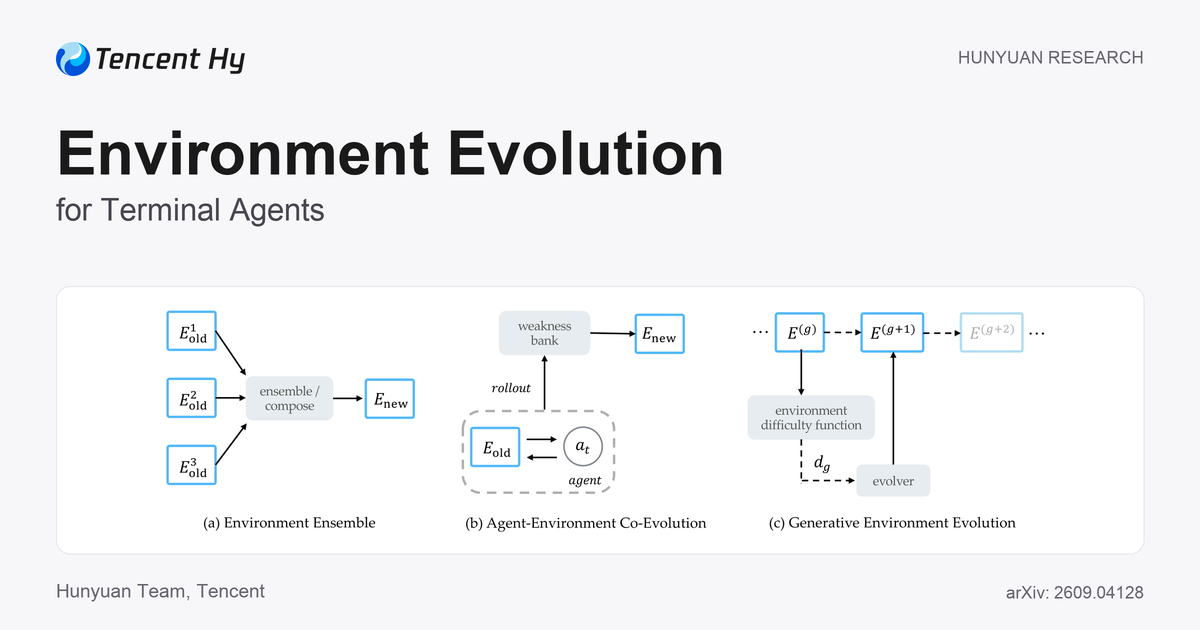
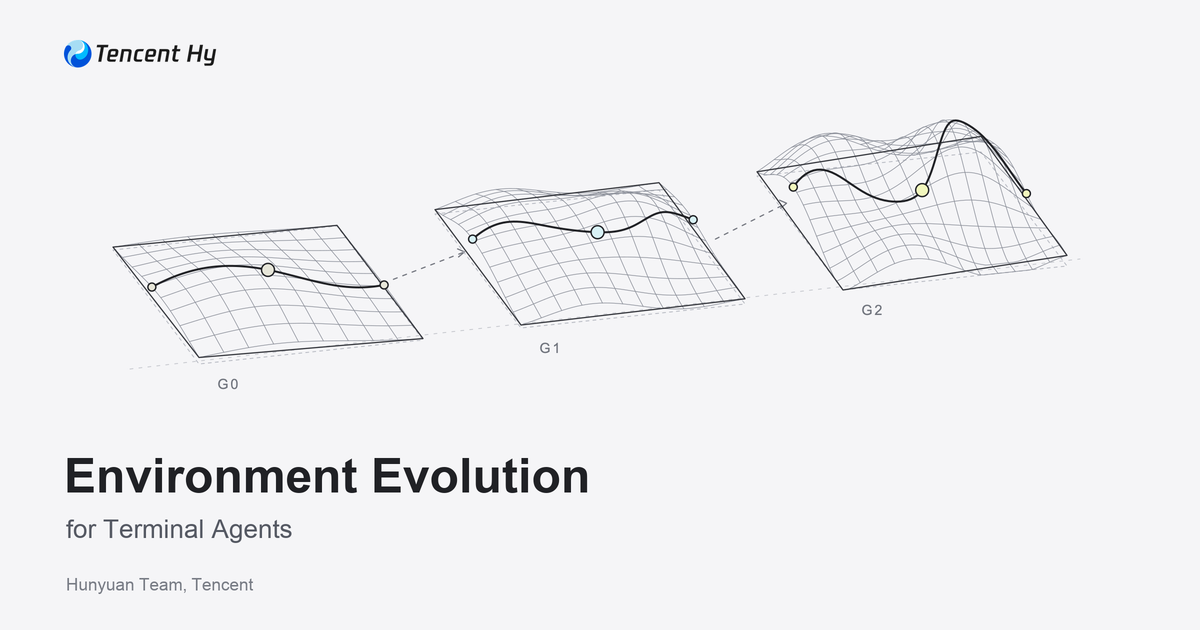
update

diff --git a/index.html b/index.html
@@ -12,16 +12,16 @@
   <meta property="og:url" content="https://environment-evolution.github.io/">
   <meta property="og:site_name" content="Environment Evolution &amp; SkillSynth">
   <meta property="og:locale" content="en_US">
-  <meta property="og:image" content="https://environment-evolution.github.io/assets/social/environment-evolution.png">
-  <meta property="og:image:alt" content="Environment Evolution for Terminal Agents — paper overview">
+  <meta property="og:image" content="https://environment-evolution.github.io/assets/social/environment-evolution.png?v=2">
+  <meta property="og:image:alt" content="Environment Evolution for Terminal Agents — geometric illustration of three evolving environment generations">
   <meta property="og:image:type" content="image/png">
   <meta property="og:image:width" content="1200">
   <meta property="og:image:height" content="630">
   <meta name="twitter:card" content="summary_large_image">
   <meta name="twitter:title" content="Environment Evolution for Terminal Agents | Tencent Hunyuan">
   <meta name="twitter:description" content="Environment scaling for terminal agents by Tencent Hunyuan (Tencent Hy). Environment Evolution builds verified, harder environments for agent reinforcement learning.">
-  <meta name="twitter:image" content="https://environment-evolution.github.io/assets/social/environment-evolution.png">
-  <meta name="twitter:image:alt" content="Environment Evolution for Terminal Agents — paper overview">
+  <meta name="twitter:image" content="https://environment-evolution.github.io/assets/social/environment-evolution.png?v=2">
+  <meta name="twitter:image:alt" content="Environment Evolution for Terminal Agents — geometric illustration of three evolving environment generations">
   <meta name="citation_title" content="Environment Evolution for Terminal Agents">
   <meta name="citation_author" content="Zhiyuan Fan">
   <meta name="citation_author" content="Tinghao Yu">
@@ -191,10 +191,10 @@
       },
       "image": {
         "@type": "ImageObject",
-        "url": "https://environment-evolution.github.io/assets/social/environment-evolution.png",
+        "url": "https://environment-evolution.github.io/assets/social/environment-evolution.png?v=2",
         "width": 1200,
         "height": 630,
-        "caption": "Environment Evolution for Terminal Agents — paper overview"
+        "caption": "Environment Evolution for Terminal Agents — geometric illustration of three evolving environment generations"
       }
     }
   ]

diff --git a/skillsynth/index.html b/skillsynth/index.html
@@ -12,16 +12,16 @@
   <meta property="og:url" content="https://environment-evolution.github.io/skillsynth/">
   <meta property="og:site_name" content="Environment Evolution &amp; SkillSynth">
   <meta property="og:locale" content="en_US">
-  <meta property="og:image" content="https://environment-evolution.github.io/assets/social/skillsynth.png">
-  <meta property="og:image:alt" content="SkillSynth — skill graph and terminal task synthesis overview">
+  <meta property="og:image" content="https://environment-evolution.github.io/assets/social/skillsynth.png?v=2">
+  <meta property="og:image:alt" content="SkillSynth — geometric skill graph with a highlighted compositional path">
   <meta property="og:image:type" content="image/png">
   <meta property="og:image:width" content="1200">
   <meta property="og:image:height" content="630">
   <meta name="twitter:card" content="summary_large_image">
   <meta name="twitter:title" content="SkillSynth: Terminal Task Synthesis | Tencent Hunyuan">
   <meta name="twitter:description" content="SkillSynth by Tencent Hunyuan (Tencent Hy) scales terminal task synthesis with skill graphs, providing diverse seed environments for Environment Evolution.">
-  <meta name="twitter:image" content="https://environment-evolution.github.io/assets/social/skillsynth.png">
-  <meta name="twitter:image:alt" content="SkillSynth — skill graph and terminal task synthesis overview">
+  <meta name="twitter:image" content="https://environment-evolution.github.io/assets/social/skillsynth.png?v=2">
+  <meta name="twitter:image:alt" content="SkillSynth — geometric skill graph with a highlighted compositional path">
   <meta name="citation_title" content="Toward Scalable Terminal Task Synthesis via Skill Graphs">
   <meta name="citation_author" content="Zhiyuan Fan">
   <meta name="citation_author" content="Tinghao Yu">
@@ -184,10 +184,10 @@
       },
       "image": {
         "@type": "ImageObject",
-        "url": "https://environment-evolution.github.io/assets/social/skillsynth.png",
+        "url": "https://environment-evolution.github.io/assets/social/skillsynth.png?v=2",
         "width": 1200,
         "height": 630,
-        "caption": "SkillSynth — skill graph and terminal task synthesis overview"
+        "caption": "SkillSynth — geometric skill graph with a highlighted compositional path"
       }
     }
   ]

diff --git a/scripts/render-social-cards.py b/scripts/render-social-cards.py
@@ -1,16 +1,16 @@
 # /// script
 # dependencies = ["Pillow", "CairoSVG"]
 # ///
-"""Render 1200 x 630 paper cards from the existing logo and original figures.
+"""Render geometric paper covers inspired by Tencent Hy's research cards.
 
-Run with `uv run scripts/render-social-cards.py` (requires the Cairo library).
+Run: uv run scripts/render-social-cards.py (requires Cairo).
+The illustrations are conceptual artwork, not experimental data.
 """
 from io import BytesIO
+from math import exp, sin, cos
 from pathlib import Path
 import os
 
-# Let ctypes locate Homebrew Cairo when launched through a macOS executable
-# that strips DYLD variables from its child process environment.
 if Path('/opt/homebrew/lib/libcairo.dylib').exists():
     os.environ.setdefault('DYLD_FALLBACK_LIBRARY_PATH', '/opt/homebrew/lib')
 
@@ -21,6 +21,8 @@ ROOT = Path(__file__).resolve().parents[1]
 OUT = ROOT / 'assets' / 'social'
 OUT.mkdir(exist_ok=True)
 SCALE = 2
+BG = '#f5f5f7'
+INK = '#202125'
 FONT_OPTIONS = [
     (Path('/System/Library/Fonts/Supplemental/Arial.ttf'),
      Path('/System/Library/Fonts/Supplemental/Arial Bold.ttf')),
@@ -30,39 +32,95 @@ FONT_OPTIONS = [
 REGULAR, BOLD = next(pair for pair in FONT_OPTIONS if all(p.exists() for p in pair))
 
 
-def render(slug, title, subtitle, figure, arxiv):
-    canvas = Image.new('RGB', (1200 * SCALE, 630 * SCALE), '#f7f7f9')
-    draw = ImageDraw.Draw(canvas)
-
-    def text(x, y, value, size, bold=False, color='#1a1a1a', anchor='la'):
-        font = ImageFont.truetype(str(BOLD if bold else REGULAR), size * SCALE)
-        assert draw.textlength(value, font=font) <= 1088 * SCALE
-        draw.text((x * SCALE, y * SCALE), value, font=font, fill=color, anchor=anchor)
-
-    logo = Image.open(ROOT / 'assets/hy-logo.png').convert('RGBA')
-    logo = ImageOps.contain(logo, (190 * SCALE, 36 * SCALE), Image.Resampling.LANCZOS)
-    canvas.paste(logo, (56 * SCALE, 42 * SCALE), logo)
-    text(1144, 48, 'HUNYUAN RESEARCH', 17, color='#65666f', anchor='ra')
-    text(56, 119, title, 61, bold=True)
-    for i, line in enumerate(subtitle):
-        text(56, 192 + i * 38, line, 31, color='#464750')
-
-    draw.rounded_rectangle((56 * SCALE, 286 * SCALE, 1144 * SCALE, 554 * SCALE),
-                           radius=14 * SCALE, fill='white', outline='#e5e6eb', width=SCALE)
-    source = ROOT / figure
-    if source.suffix == '.svg':
-        artwork = Image.open(BytesIO(cairosvg.svg2png(url=str(source), output_width=2200)))
-    else:
-        artwork = Image.open(source)
-    artwork = ImageOps.contain(artwork.convert('RGBA'), (1040 * SCALE, 240 * SCALE), Image.Resampling.LANCZOS)
-    canvas.paste(artwork, ((1200 * SCALE - artwork.width) // 2,
-                          286 * SCALE + (268 * SCALE - artwork.height) // 2), artwork)
-    text(56, 580, 'Hunyuan Team, Tencent', 19, color='#65666f')
-    text(1144, 583, 'arXiv: ' + arxiv, 17, color='#65666f', anchor='ra')
-    canvas.resize((1200, 630), Image.Resampling.LANCZOS).save(OUT / (slug + '.png'), optimize=True)
+def line(points, color=INK, width=1, dash=None):
+    coords = ' '.join(f'{x:.2f},{y:.2f}' for x, y in points)
+    dashed = f' stroke-dasharray="{dash}"' if dash else ''
+    return f'<polyline points="{coords}" fill="none" stroke="{color}" stroke-width="{width}" stroke-linecap="round" stroke-linejoin="round"{dashed}/>'
 
 
-render('environment-evolution', 'Environment Evolution', ['for Terminal Agents'],
-       'assets/figures/Main_v2.svg', '2609.04128')
-render('skillsynth', 'SkillSynth', ['Toward Scalable Terminal Task Synthesis', 'via Skill Graphs'],
-       'skillsynth/assets/figures/main_v3.png', '2604.25727')
+def node(x, y, fill, radius=7):
+    return f'<circle cx="{x:.2f}" cy="{y:.2f}" r="{radius}" fill="{fill}" stroke="{INK}" stroke-width="1.4"/>'
+
+
+def evolution():
+    parts = []
+    # Three bounded environments form a single lineage. The increasingly
+    # structured terrain echoes the page's existing animated background.
+    centers = [(268, 295), (590, 259), (912, 221)]
+    def project(u, v, g, floor=False):
+        hill = lambda x, z, spread: exp(-((u-x)**2+(v-z)**2)/spread)
+        height = 29*hill(-.15,.08,.2) + g*(31*hill(.25,-.12,.09)+18*hill(-.3,-.25,.08))
+        height += g**1.3*sin(u*8)*cos(v*7)*5
+        cx, cy = centers[g]
+        return cx + u*224 + v*86, cy + v*114 - u*24 - (0 if floor else max(0,height))
+    # Faint construction lines and dashed transitions stay behind the meshes.
+    parts.append(line([(130,369),(1080,259)], '#c5c7cd', .85, '3 6'))
+    for g in range(2):
+        a=project(.56,0,g); b=project(-.56,0,g+1)
+        parts.append(line([a,b], '#747780', 1.2, '4 6'))
+        parts.append(line([(b[0]-7,b[1]-3),b,(b[0]-6,b[1]+5)], '#747780', 1.2))
+    for g in range(3):
+        corners=[(-.5,-.5),(.5,-.5),(.5,.5),(-.5,.5),(-.5,-.5)]
+        parts.append(line([project(u,v,g,True) for u,v in corners], '#b8bbc3', .9, '3 4'))
+        n=9+g*2
+        for i in range(n+1):
+            k=i/n-.5
+            for cross in (False,True):
+                pts=[project(j/48-.5,k,g) if cross else project(k,j/48-.5,g) for j in range(49)]
+                parts.append(line(pts, '#8b8f99', .65))
+        parts.append(line([project(u,v,g) for u,v in corners], '#35373d', 1.2))
+        route=[project(j/72-.5,sin((j/72-.5)*(5+g*2)+g)*(.08+g*.025),g) for j in range(73)]
+        parts.append(line(route, INK, 2))
+        for j in (0,36,72):
+            parts.append(node(*route[j], ['#e7e6d9','#d8f1f5','#f2f7bd'][g], 6.5 if j==36 else 4))
+        x,y=project(-.5,.72,g,True)
+        parts.append(f'<text x="{x:.1f}" y="{y:.1f}" font-family="Arial,sans-serif" font-size="14" letter-spacing="2" fill="#71757e">G{g}</text>')
+    return ''.join(parts)
+
+
+def skills():
+    # Nodes represent scenarios; connected edges represent composable skills.
+    pts=[(240,248),(337,146),(353,330),(458,234),(536,121),(548,349),
+         (633,209),(703,318),(771,127),(836,238),(931,155),(968,329)]
+    edges=[(0,1),(0,2),(0,3),(1,3),(1,4),(2,3),(2,5),(3,4),(3,5),
+           (3,6),(4,6),(4,8),(5,6),(5,7),(6,7),(6,8),(6,9),(7,9),
+           (7,11),(8,9),(8,10),(9,10),(9,11),(10,11)]
+    parts=[f'<ellipse cx="603" cy="239" rx="398" ry="144" fill="none" stroke="#c3c6cd" stroke-width=".8" stroke-dasharray="3 6"/>']
+    parts.append(line([(170,239),(1035,239)], '#c3c6cd', .8, '2 6'))
+    for a,b in edges:
+        parts.append(line([pts[a],pts[b]], '#a6a9b1', .9, '3 5' if (a+b)%4==0 else None))
+    route=[0,3,6,9,10]
+    parts.append(line([pts[i] for i in route], INK, 2.1))
+    # A second compositional path makes the branching structure legible.
+    parts.append(line([pts[i] for i in [1,4,8,9,11]], '#555962', 1.1))
+    for i,(x,y) in enumerate(pts):
+        color = '#f5f5f7'
+        if i in (0,10): color='#f2f7bd'
+        elif i in route: color='#d8f1f5'
+        elif i in (4,7): color='#e7e6d9'
+        parts.append(node(x,y,color,9 if i in route else 6))
+    # Small unlabelled satellite nodes add the graph's open-ended coverage.
+    for a,p in [(1,(277,102)),(2,(280,377)),(4,(506,71)),(8,(824,79)),(11,(1027,378))]:
+        parts.append(line([pts[a],p], '#b6bac3', .85, '3 5'))
+        parts.append(node(*p,BG,3))
+    return ''.join(parts)
+
+
+def render(slug, title, subtitle, art):
+    svg=f'<svg xmlns="http://www.w3.org/2000/svg" width="1200" height="630" viewBox="0 0 1200 630"><rect width="1200" height="630" fill="{BG}"/>{art}</svg>'
+    canvas=Image.open(BytesIO(cairosvg.svg2png(bytestring=svg.encode(),scale=SCALE))).convert('RGB')
+    draw=ImageDraw.Draw(canvas)
+    def text(x,y,value,size,bold=False,color=INK):
+        font=ImageFont.truetype(str(BOLD if bold else REGULAR),size*SCALE)
+        assert draw.textlength(value,font=font)<=1072*SCALE
+        draw.text((x*SCALE,y*SCALE),value,font=font,fill=color)
+    logo=ImageOps.contain(Image.open(ROOT/'assets/hy-logo.png').convert('RGBA'),(153*SCALE,29*SCALE),Image.Resampling.LANCZOS)
+    canvas.paste(logo,(64*SCALE,40*SCALE),logo)
+    text(64,449,title,48,bold=True)
+    text(66,514,subtitle,26,color='#555963')
+    text(66,575,'Hunyuan Team, Tencent',17,color='#787c85')
+    canvas.resize((1200,630),Image.Resampling.LANCZOS).save(OUT/(slug+'.png'),optimize=True)
+
+
+render('environment-evolution','Environment Evolution','for Terminal Agents',evolution())
+render('skillsynth','SkillSynth','Toward Scalable Terminal Task Synthesis via Skill Graphs',skills())
